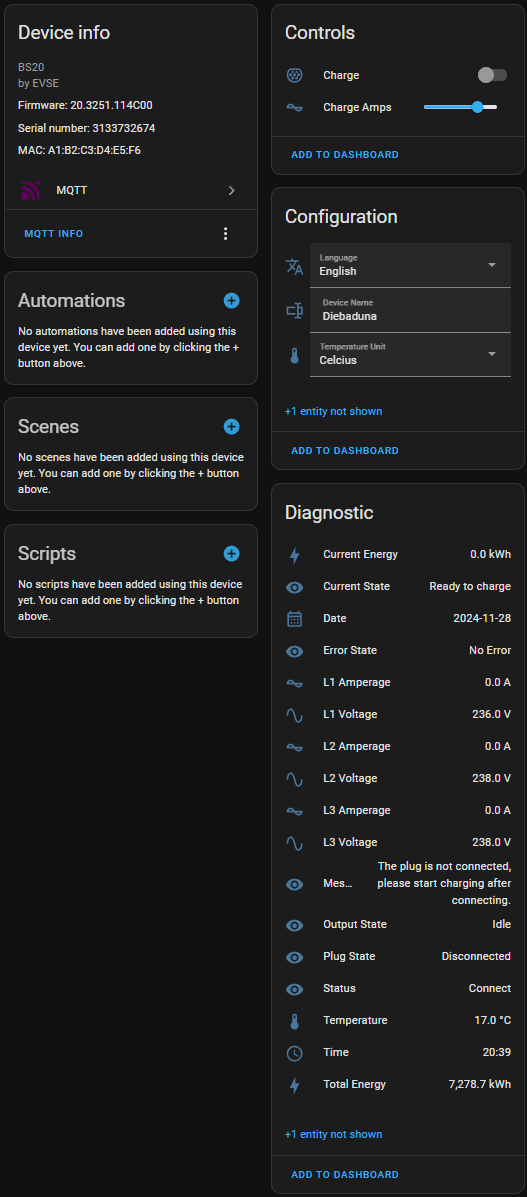
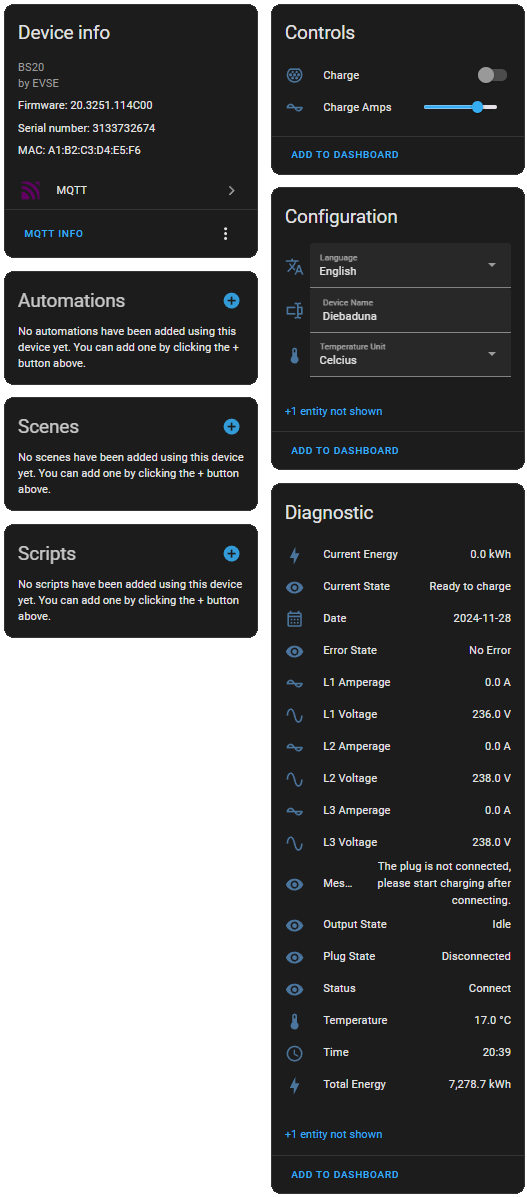
Updated readme.md and removed background from screenshot.

Changed region(s): [[0.0, 0.0, 1.0, 1.0]]

diff --git a/readme.md b/readme.md
@@ -1,8 +1,8 @@
 # evseMQTT
-`evseMQTT` is a Python library designed for communicating with EVSE-based Electric Vehicle Charging Wallboxes using Bluetooth Low Energy (BLE). Due to potential security concerns of WiFi connectivity, this library facilitates a local, no cloud connection to your EVSE device. It has been tested on the Besen BS20 model using a Raspberry Pi Zero 2 W.
+`evseMQTT` is a Python library designed for communicating with EVSE-based Electric Vehicle Charging Wallboxes using Bluetooth Low Energy (BLE), and exposing its data and controls to Home Assistant using MQTT Discovery. Due to potential security concerns of WiFi connectivity, this library facilitates a local, no cloud connection to your EVSE device. It has been tested on the Besen BS20 model using a Raspberry Pi Zero 2 W.
 
 The code base is by no means perfect or especially beautiful -- pragmatic hacks are applied where needed.
-
+![Home Assistant Device view](https://raw.githubusercontent.com/slespersen/evseMQTT/refs/heads/main/evseMQTT_home_assistant.png)
 ## Features
 
 `evseMQTT` provides the following functionalities:
